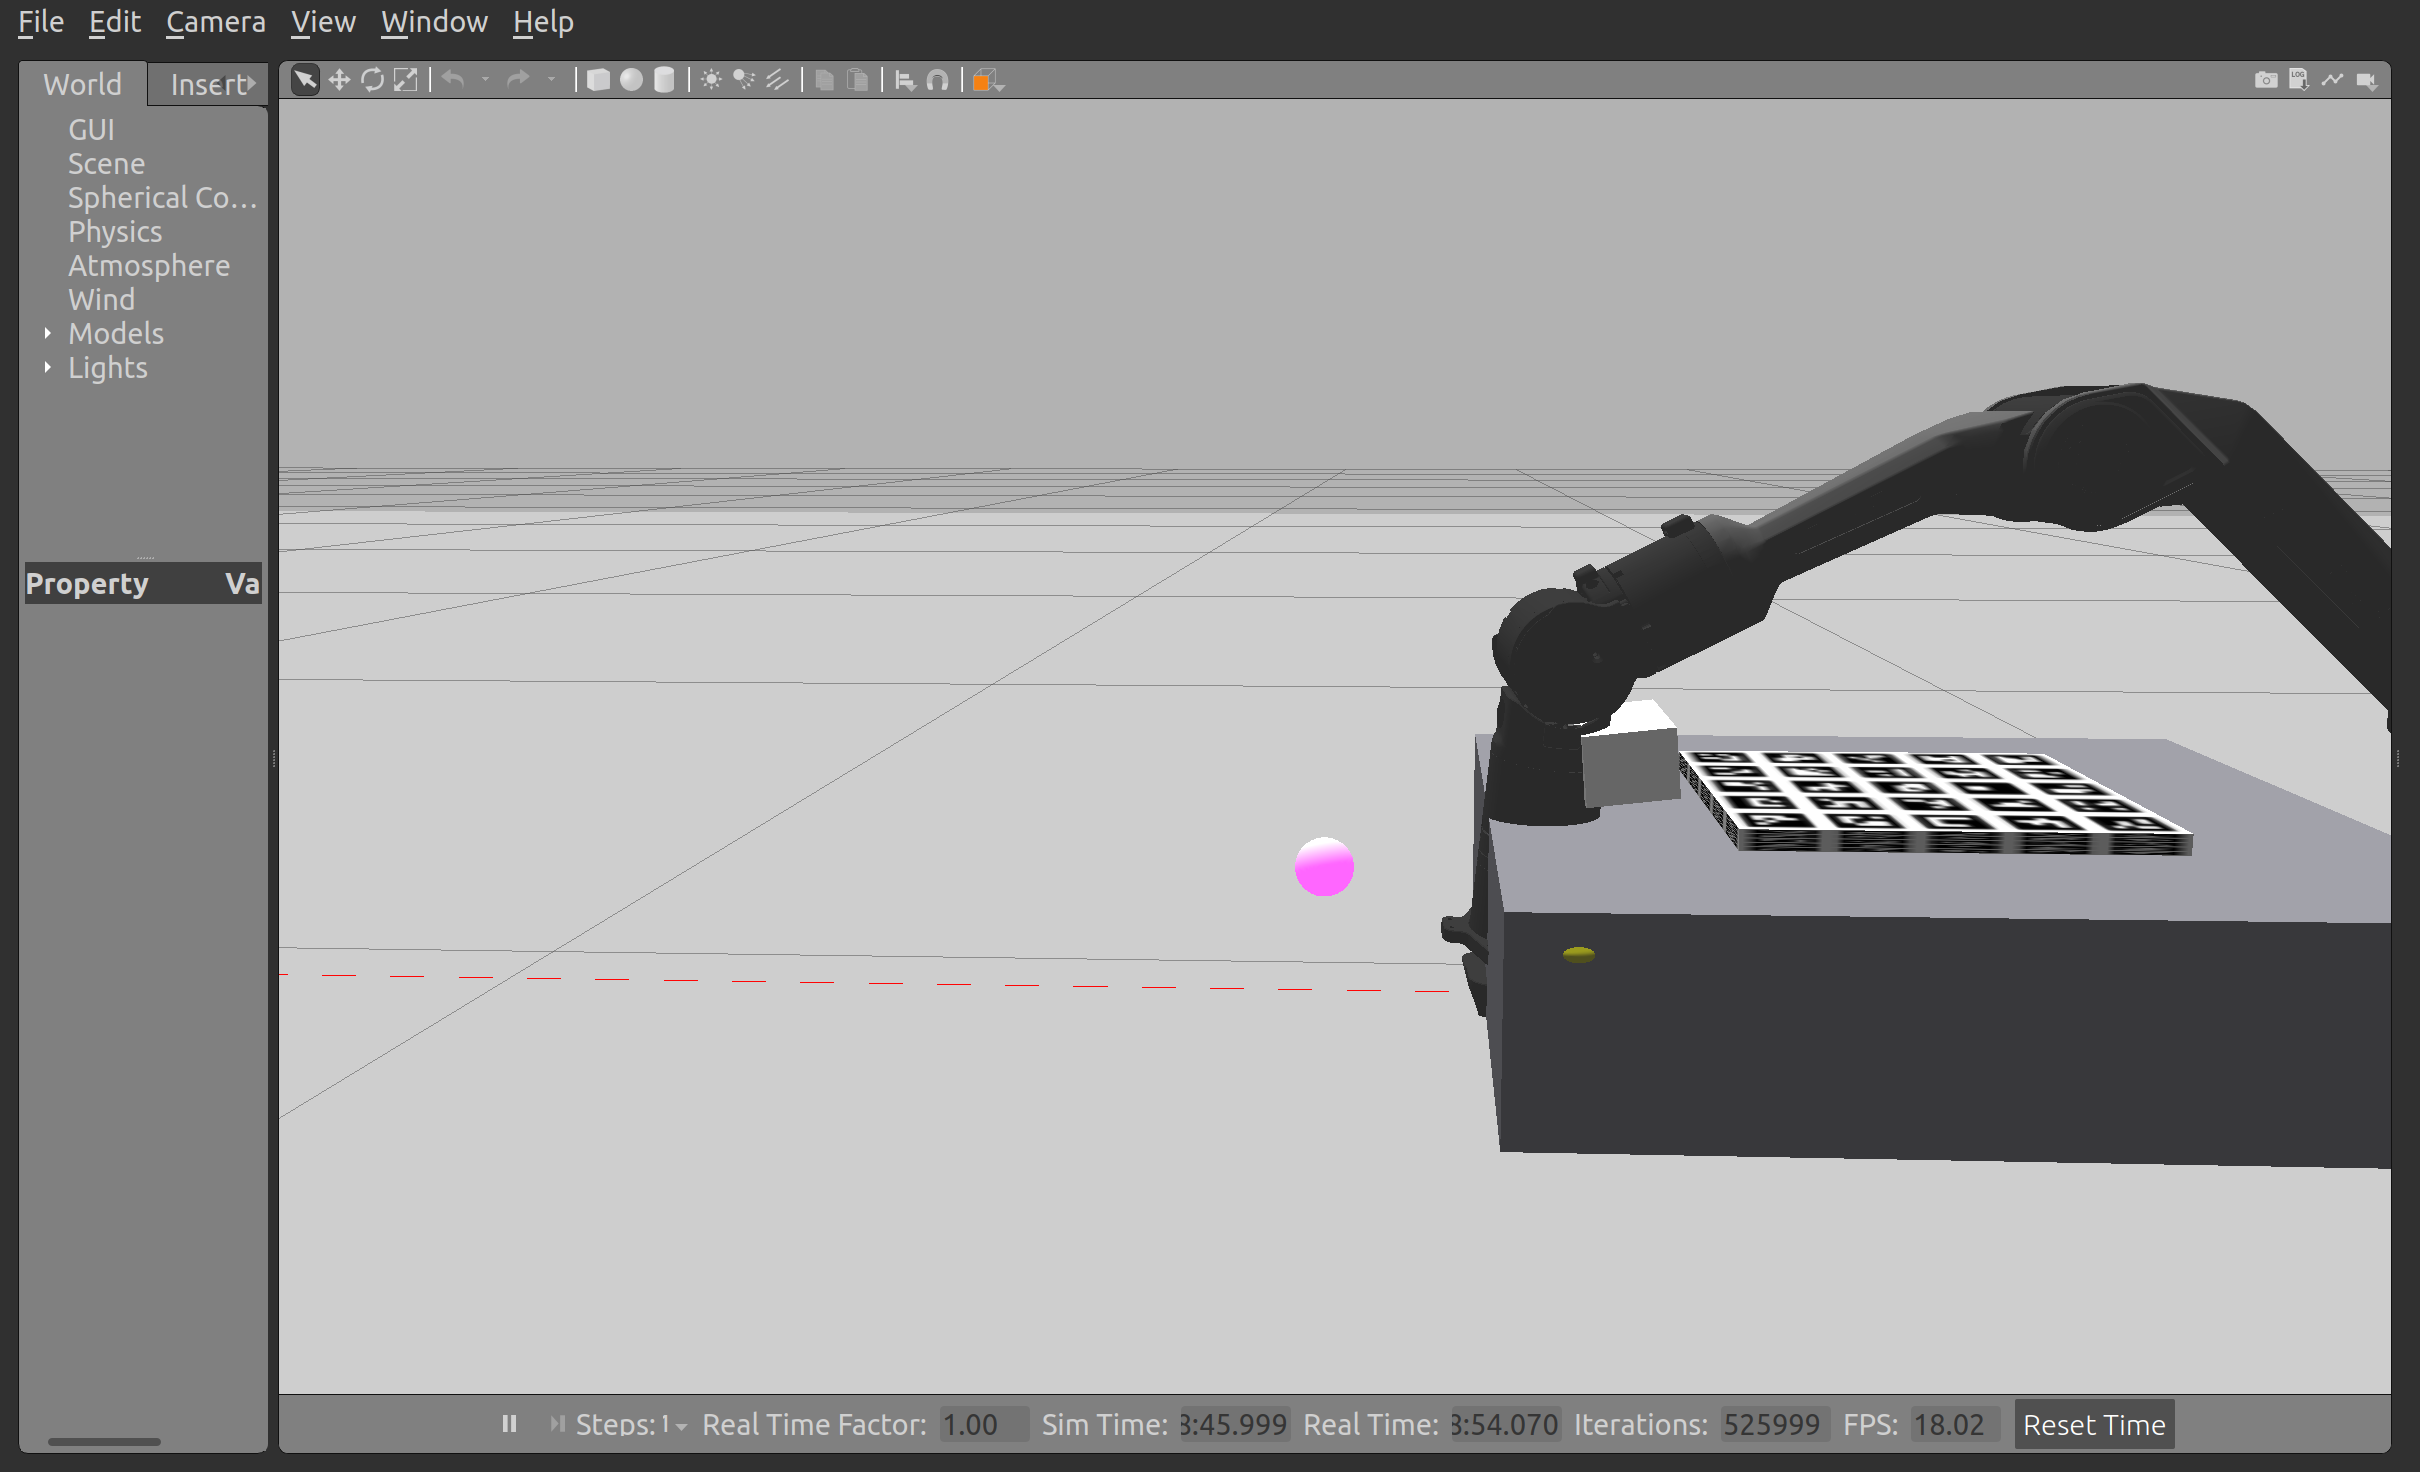
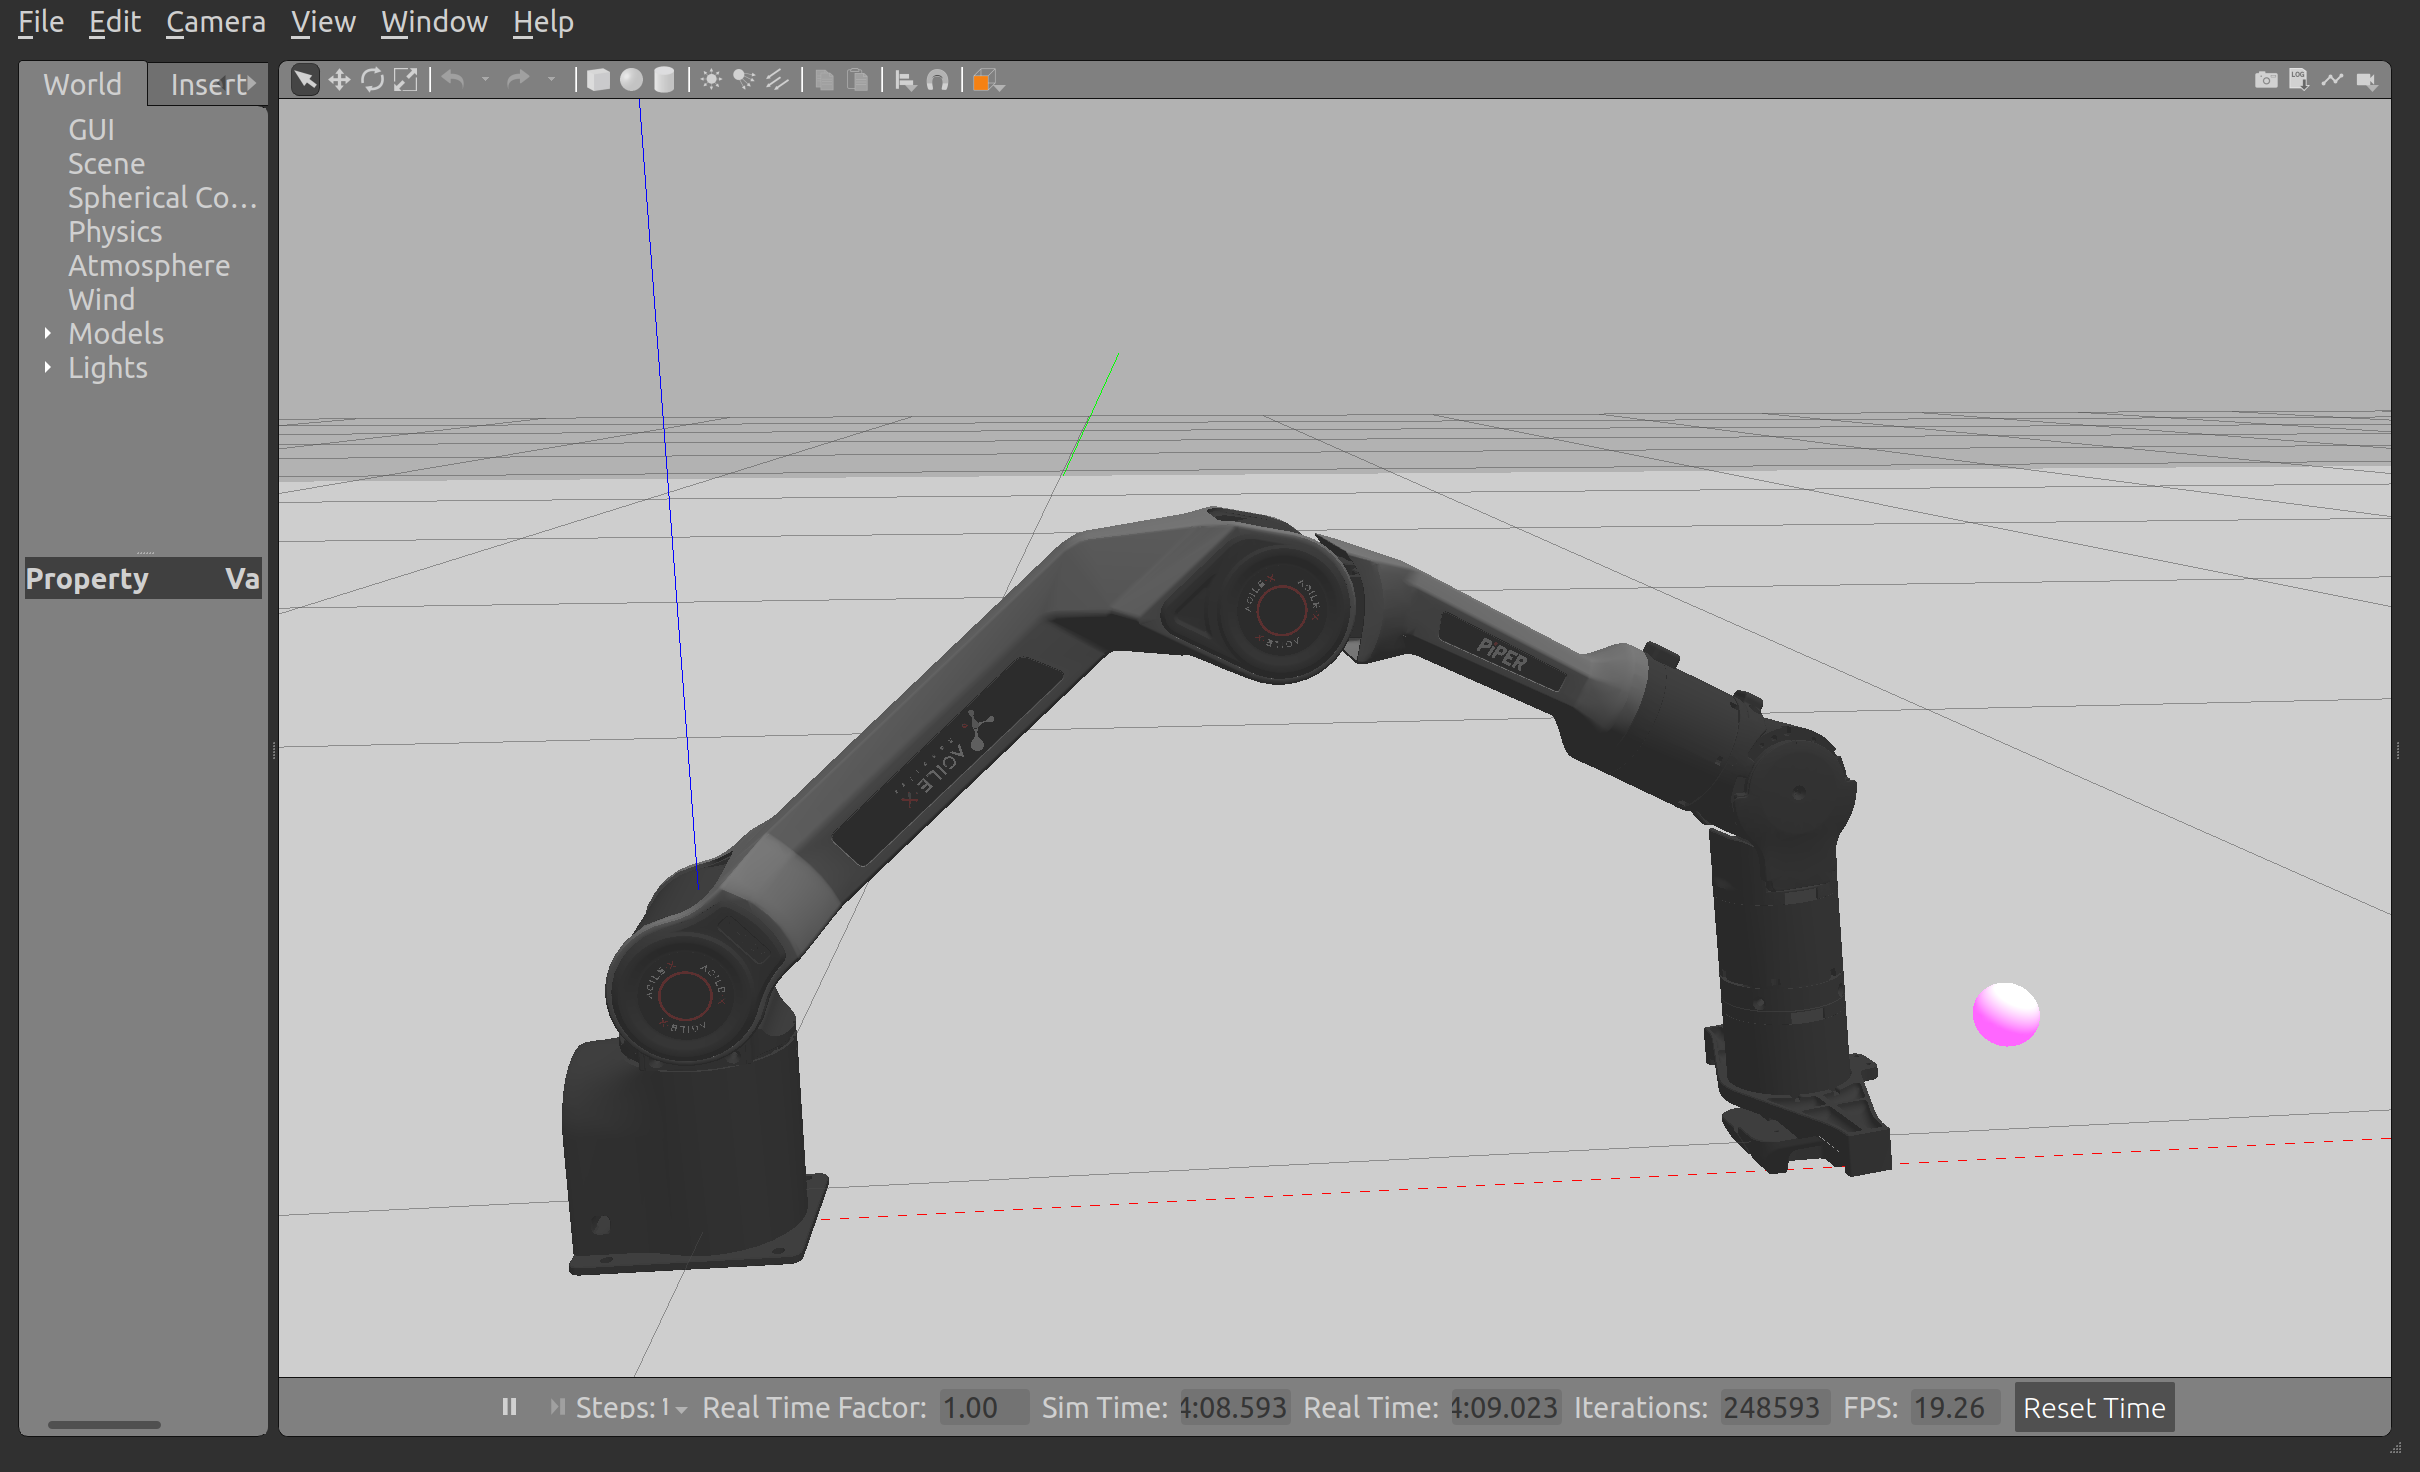
Simplify camera center Gazebo scene

diff --git a/sim/gazebo/make_robot.py b/sim/gazebo/make_robot.py
@@ -1,4 +1,4 @@
-"""Generate a Piper Gazebo model with a nominal link6-mounted camera.
+"""Generate a Piper Gazebo model with an invisible link6-mounted camera sensor.
 
 The arm and gripper come from the official agx_arm_description xacro. The
 camera transform is simulation ground truth, not a measurement of the real
@@ -119,28 +119,21 @@ def main():
         if filename.startswith(prefix):
             mesh.set('filename', (share / filename[len(prefix):]).resolve().as_uri())
 
-    camera = add(root, 'link', {'name': 'camera_link'})
-    inertial = add(camera, 'inertial')
-    add(inertial, 'mass', {'value': '0.08'})
-    add(inertial, 'inertia', {'ixx': '0.00002', 'ixy': '0', 'ixz': '0',
-                              'iyy': '0.00002', 'iyz': '0', 'izz': '0.00002'})
-    visual = add(camera, 'visual')
-    geometry = add(visual, 'geometry')
-    add(geometry, 'box', {'size': '0.045 0.06 0.035'})
-    material = add(visual, 'material', {'name': 'sim_camera_blue'})
-    add(material, 'color', {'rgba': '0.1 0.35 0.9 1'})
-    collision = add(camera, 'collision')
-    add(add(collision, 'geometry'), 'box', {'size': '0.045 0.06 0.035'})
-
-    joint = add(root, 'joint', {'name': 'sim_camera_mount', 'type': 'fixed'})
-    add(joint, 'parent', {'link': 'link6'})
-    add(joint, 'child', {'link': 'camera_link'})
-    add(joint, 'origin', {'xyz': CAMERA_XYZ, 'rpy': CAMERA_RPY})
-    add(root, 'link', {'name': 'camera_depth_frame'})
-    optical = add(root, 'joint', {'name': 'sim_camera_optical', 'type': 'fixed'})
-    add(optical, 'parent', {'link': 'camera_link'})
-    add(optical, 'child', {'link': 'camera_depth_frame'})
-    add(optical, 'origin', {'xyz': '0 0 0', 'rpy': '-1.5707963 0 -1.5707963'})
+    if not args.frozen_sample:
+        camera = add(root, 'link', {'name': 'camera_link'})
+        inertial = add(camera, 'inertial')
+        add(inertial, 'mass', {'value': '0.08'})
+        add(inertial, 'inertia', {'ixx': '0.00002', 'ixy': '0', 'ixz': '0',
+                                  'iyy': '0.00002', 'iyz': '0', 'izz': '0.00002'})
+        joint = add(root, 'joint', {'name': 'sim_camera_mount', 'type': 'fixed'})
+        add(joint, 'parent', {'link': 'link6'})
+        add(joint, 'child', {'link': 'camera_link'})
+        add(joint, 'origin', {'xyz': CAMERA_XYZ, 'rpy': CAMERA_RPY})
+        add(root, 'link', {'name': 'camera_depth_frame'})
+        optical = add(root, 'joint', {'name': 'sim_camera_optical', 'type': 'fixed'})
+        add(optical, 'parent', {'link': 'camera_link'})
+        add(optical, 'child', {'link': 'camera_depth_frame'})
+        add(optical, 'origin', {'xyz': '0 0 0', 'rpy': '-1.5707963 0 -1.5707963'})
 
     real_center_xyz = None
     if args.real_camera_center:
@@ -151,44 +144,46 @@ def main():
     for link in root.findall('link'):
         gazebo = add(root, 'gazebo', {'reference': link.attrib['name']})
         add(gazebo, 'gravity', text='false')
-    preserve = add(root, 'gazebo', {'reference': 'sim_camera_mount'})
-    add(preserve, 'preserveFixedJoint', text='true')
+    if not args.frozen_sample:
+        preserve = add(root, 'gazebo', {'reference': 'sim_camera_mount'})
+        add(preserve, 'preserveFixedJoint', text='true')
 
-    gazebo = add(root, 'gazebo', {'reference': 'camera_link'})
-    sensor = add(gazebo, 'sensor', {'name': 'handeye_color', 'type': 'camera'})
-    add(sensor, 'always_on', text='true')
-    add(sensor, 'update_rate', text='15')
-    camera_sensor = add(sensor, 'camera', {'name': 'handeye_color'})
-    add(camera_sensor, 'horizontal_fov', text='1.858776')
-    image = add(camera_sensor, 'image')
-    add(image, 'width', text='640')
-    add(image, 'height', text='480')
-    add(image, 'format', text='R8G8B8')
-    clip = add(camera_sensor, 'clip')
-    add(clip, 'near', text='0.02')
-    add(clip, 'far', text='3.0')
-    plugin = add(sensor, 'plugin', {'name': 'handeye_camera_ros',
-                                    'filename': 'libgazebo_ros_camera.so'})
-    ros = add(plugin, 'ros')
-    add(ros, 'namespace', text='/sim/camera')
-    add(plugin, 'camera_name', text='aligned')
-    add(plugin, 'frame_name', text='camera_depth_frame')
+        gazebo = add(root, 'gazebo', {'reference': 'camera_link'})
+        sensor = add(gazebo, 'sensor', {'name': 'handeye_color', 'type': 'camera'})
+        add(sensor, 'always_on', text='true')
+        add(sensor, 'update_rate', text='15')
+        camera_sensor = add(sensor, 'camera', {'name': 'handeye_color'})
+        add(camera_sensor, 'horizontal_fov', text='1.858776')
+        image = add(camera_sensor, 'image')
+        add(image, 'width', text='640')
+        add(image, 'height', text='480')
+        add(image, 'format', text='R8G8B8')
+        clip = add(camera_sensor, 'clip')
+        add(clip, 'near', text='0.02')
+        add(clip, 'far', text='3.0')
+        plugin = add(sensor, 'plugin', {'name': 'handeye_camera_ros',
+                                        'filename': 'libgazebo_ros_camera.so'})
+        ros = add(plugin, 'ros')
+        add(ros, 'namespace', text='/sim/camera')
+        add(plugin, 'camera_name', text='aligned')
+        add(plugin, 'frame_name', text='camera_depth_frame')
 
-    model_gazebo = add(root, 'gazebo')
-    trajectory = add(model_gazebo, 'plugin', {
-        'name': 'gazebo_ros_joint_pose_trajectory',
-        'filename': 'libgazebo_ros_joint_pose_trajectory.so',
-    })
-    add(trajectory, 'update_rate', text='100')
-    state_pub = add(model_gazebo, 'plugin', {
-        'name': 'gazebo_ros_joint_state_publisher',
-        'filename': 'libgazebo_ros_joint_state_publisher.so',
-    })
-    ros = add(state_pub, 'ros')
-    add(ros, 'remapping', text='joint_states:=/control/joint_states')
-    add(state_pub, 'update_rate', text='30')
-    for index in range(1, 7):
-        add(state_pub, 'joint_name', text=f'joint{index}')
+    if not args.frozen_sample:
+        model_gazebo = add(root, 'gazebo')
+        trajectory = add(model_gazebo, 'plugin', {
+            'name': 'gazebo_ros_joint_pose_trajectory',
+            'filename': 'libgazebo_ros_joint_pose_trajectory.so',
+        })
+        add(trajectory, 'update_rate', text='100')
+        state_pub = add(model_gazebo, 'plugin', {
+            'name': 'gazebo_ros_joint_state_publisher',
+            'filename': 'libgazebo_ros_joint_state_publisher.so',
+        })
+        ros = add(state_pub, 'ros')
+        add(ros, 'remapping', text='joint_states:=/control/joint_states')
+        add(state_pub, 'update_rate', text='30')
+        for index in range(1, 7):
+            add(state_pub, 'joint_name', text=f'joint{index}')
 
     args.output.parent.mkdir(parents=True, exist_ok=True)
     ET.ElementTree(root).write(args.output, encoding='unicode', xml_declaration=False)
@@ -207,8 +202,10 @@ def main():
         ET.ElementTree(sdf_root).write(sdf_path, encoding='unicode',
                                        xml_declaration=False)
         print(f'Saved static Gazebo model {sdf_path}')
-    print(f'Saved {args.output}; nominal T_link6_camera_link xyz={CAMERA_XYZ} '
-          f'rpy={CAMERA_RPY}')
+    print(f'Saved {args.output}')
+    if not args.frozen_sample:
+        print(f'Invisible simulated sensor: T_link6_camera_link xyz={CAMERA_XYZ} '
+              f'rpy={CAMERA_RPY}')
     if real_center_xyz is not None:
         print('Magenta real camera center relative to link6: '
               + ' '.join(f'{value:+.6f}' for value in real_center_xyz) + ' m')

diff --git a/README.md b/README.md
@@ -84,7 +84,7 @@ Vidu SDK 提供 IMU 读取接口：`GetImuData()` 可读取三轴陀螺仪 `Gyro
 
 ### Gazebo 手眼标定演示
 
-Gazebo Classic 现在使用官方 Piper + 原厂夹爪模型、工作台上的同一张 ArUco 板，以及固定在 `link6` 上的**模拟相机**。相机安装外参是人为设定的真值，仅用于验证采集与求解流程，不能写入实机的 `calibration/handeye_result.json`。Gazebo 相机是理想彩色相机，不模拟 OKULO 深度噪声或真实镜头畸变。
+Gazebo Classic 手眼演示使用官方 Piper + 原厂夹爪模型、工作台上的 ArUco 板，以及固定在 `link6` 上的**不可见模拟相机传感器**。传感器没有可见方块，也没有方块碰撞体。相机安装外参是人为设定的真值，仅用于验证采集与求解流程，不能写入实机的 `calibration/handeye_result.json`。Gazebo 相机是理想彩色相机，不模拟 OKULO 深度噪声或真实镜头畸变。
 
 在工作区根目录的不同终端启动以下进程（每个终端先执行 `source /opt/ros/humble/setup.bash && source install/setup.bash && export ROS_DOMAIN_ID=78`，与当前实机相机的默认 ROS 域隔离）：
 
@@ -117,20 +117,23 @@ ros2 run piperx_lab handeye_solve --mode sim --samples records/gazebo_piper_hand
 
 ### 在 Gazebo 中显示实机相机中心
 
-要看实机标定得到的相机中心，生成模型时加 `--real-camera-center`。Gazebo 中的**紫色发光球**表示实机 `camera_depth_frame` 原点，它固定在 `link6` 上；原有的蓝色盒子仍是用于仿真采集的标称相机，不能当作实机外形或安装位置。加上 `--frozen-sample` 可将实机采集时保存的六关节角固定在模型中，并额外生成一份静态 SDF，便于稳定查看和截图。
+相机中心展示使用独立的 `camera_center.world`，场景中只有地面和机械臂，没有工作台或虚拟标定板。生成模型时加 `--real-camera-center`，Gazebo 中的**紫色发光球**表示实机 `camera_depth_frame` 原点，它固定在 `link6` 上。加上 `--frozen-sample` 可将实机采集时保存的六关节角固定在模型中，并额外生成一份静态 SDF；这份模型不包含模拟相机传感器。
 
 ```bash
 python3 sim/gazebo/make_robot.py /tmp/piper_camera_center.urdf \
   --real-camera-center calibration/handeye_result.json \
   --frozen-sample calibration/samples/1791896080_368365465.json
 
-# 按上节启动 Gazebo 服务后加载静态 SDF；可运行 gzclient 查看三维场景
+# 另一个终端按上节设置 ROS 与 Gazebo 环境变量后，启动无工作台、无虚拟标定板的场景
+gzserver sim/gazebo/worlds/camera_center.world -s libgazebo_ros_init.so -s libgazebo_ros_factory.so
+
+# 再开终端加载静态 SDF；可运行 gzclient 查看三维场景
 ros2 run gazebo_ros spawn_entity.py -entity piper_camera_center -file /tmp/piper_camera_center.sdf
 ros2 run robot_state_publisher robot_state_publisher /tmp/piper_camera_center.urdf \
   --ros-args -p use_sim_time:=true
 ```
 
-示例样本保存的六关节角约为 `[3.59, 140.55, -108.98, -4.89, 57.94, 1.98]°`。按该样本保存的 `T_base_wrist` 和实机手眼外参计算，相机中心在 `base_link` 约为 **(0.5917, 0.0107, 0.0684) m**；Gazebo 中查询到紫色球的坐标为 **(0.591657, 0.010675, 0.068351) m**。球体只用于可视化，不代表相机壳体尺寸。固定姿态模型仅用于观察，不能用它执行关节轨迹或仿真手眼采集。要运行原有的动态仿真流程，继续使用不带 `--frozen-sample` 的模型。已有 Gazebo 进程时需删除旧模型并重新生成模型，才能看到球体。
+示例样本保存的六关节角约为 `[3.59, 140.55, -108.98, -4.89, 57.94, 1.98]°`。按该样本保存的 `T_base_wrist` 和实机手眼外参计算，相机中心在 `base_link` 约为 **(0.5917, 0.0107, 0.0684) m**；Gazebo 中查询到紫色球的坐标为 **(0.591657, 0.010675, 0.068351) m**。球体只用于可视化，不代表相机壳体尺寸。固定姿态模型仅用于观察，不能用它执行关节轨迹或仿真手眼采集；手眼演示仍使用独立的 `handeye.world`。已有 Gazebo 进程时需先关闭旧场景并重新启动 `camera_center.world`。
 
 ![Gazebo 中的 Piper 实机相机中心（紫色球）](docs/gazebo_real_camera_center.png)
 
